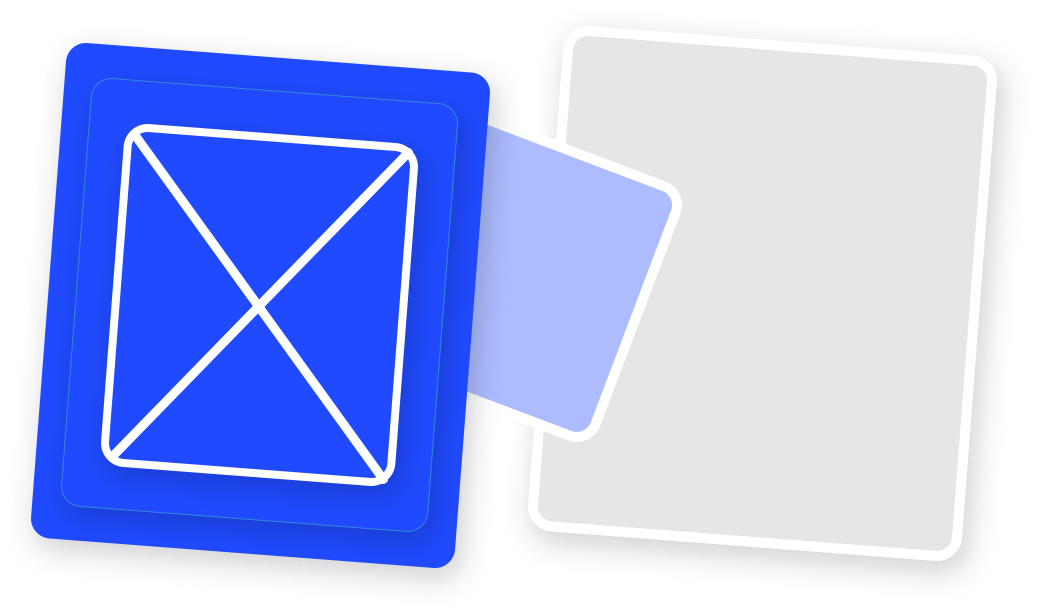
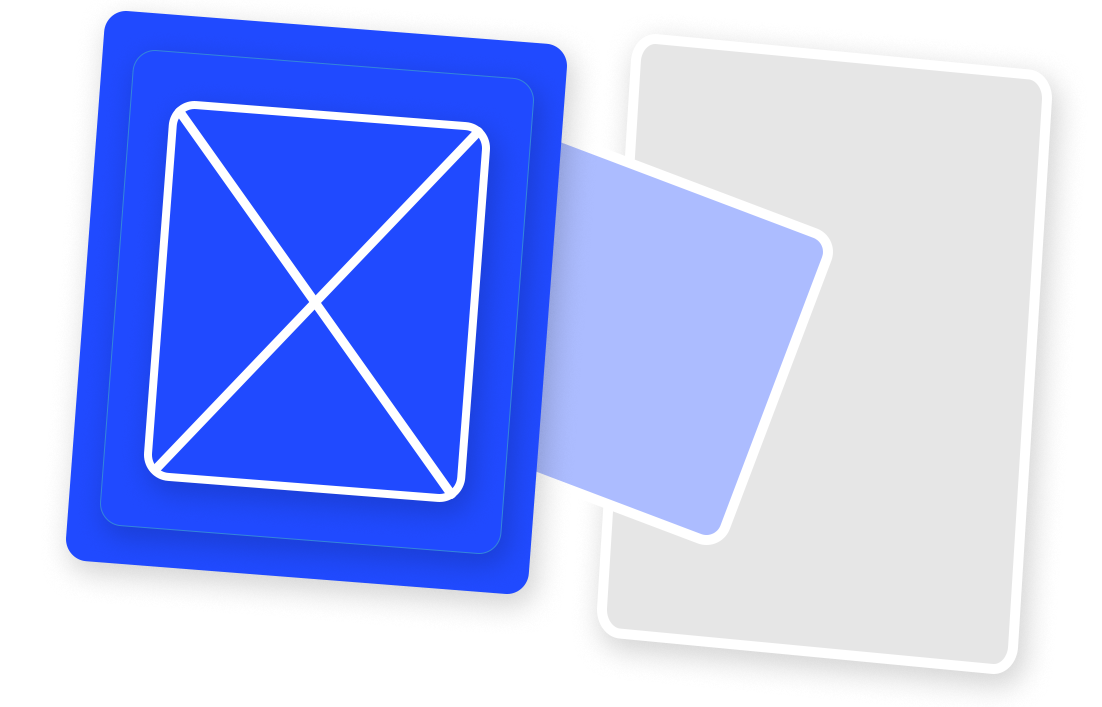
add texts to the cards complete the responsivnesse and adding animation to the project overview page

Changed region(s): [[0.0309, 0.0, 0.9257, 0.9608], [0.8949, 0.093, 0.9566, 0.6819], [0.216, 0.279, 0.2469, 0.3409]]

diff --git a/components/Project_Overview/project_overview.css b/components/Project_Overview/project_overview.css
@@ -33,7 +33,12 @@
         align-items: flex-end;
         gap: 2rem;
         justify-content: center;
-    
+        > *{
+            opacity: 0;
+
+            animation: buttonpop 0.2s ease-out forwards ;
+            animation-delay: calc(.9s - (sibling-index() * .1s)); 
+        } 
     }
 
     .project-title{
@@ -67,7 +72,9 @@
     grid-column:2/-2 ;
     grid-row: 3/-3;
     width: 100%;
-    height: 100%;    
+    height: 100%;   
+
+
     .graphics-container{
         width: 100%;
         height: 100%;
@@ -75,25 +82,30 @@
         grid-template-columns: 1fr 1fr;
         gap: 2rem;
         position: relative;
+
+        > *{
+            animation-delay: calc(.9s - (sibling-index() * .1s)); 
+        } 
         }
     .graphics-container >div:nth-child(3){
             grid-column: 1/-1;
         }
 
     .dev-image{
-        width: 80%;
-        top: 100%;
-        left: 10%;
-        transform: translateY(-70%);
-    }   
-    .build-image{
         width: 90%;
         top: 100%;
-        right: -10%;
-        transform: translateY(-100%);
+        left: 20%;
+        transform: translateY(-80%);
+    }   
+    .build-image{
+        width: 120%;
+        top: 90%;
+        right: -30%;
+        transform: translateY(-100%) rotate(10deg);
     }   
     .marketing-image{
         /* bottom: 100%; */
+        width: 90%;
         top: 100%;
         left: 0;
         transform: translateY(-100%);
@@ -122,6 +134,27 @@
 .project-graphics{
     grid-column: 2/8;
     grid-row:2/-2 ;
+    .graphics-container{
+            .dev-image{
+        width: 80%;
+        top: 100%;
+        left: 10%;
+        transform: translateY(-40%);
+    }   
+    .build-image{
+        width: 90%;
+        top: 100%;
+        right: -10%;
+        transform: translateY(-100%);
+    }   
+    .marketing-image{
+        /* bottom: 100%; */
+        width: 60%;
+        top: 100%;
+        left: 0;
+        transform: translateY(-100%);
+    } 
+    }
 }
 }
 

diff --git a/components/Project_Overview/project_overview.tsx b/components/Project_Overview/project_overview.tsx
@@ -11,7 +11,7 @@ const ProjectOverview = (props: Props) => {
     <div className='grid'>
         <section className='project-graphics'>
             <article className='graphics-container'>
-                <Card title='التعلّم' text='و الذكاء الإصطناعيKotlin تعلم '>
+                <Card title='البناء' text='ابن تطبيقك و حوله إلى منتج '>
                     <Image
                         src={buildImage}
                         alt="sads"
@@ -25,7 +25,7 @@ const ProjectOverview = (props: Props) => {
                         className="dev-image"
                         />
                 </Card>
-                <Card title='التعلّم' text='و الذكاء الإصطناعيKotlin تعلم '>
+                <Card title='التســــويـــــــــــــــق' text='سوّق فكرتك و خلّيها توصل'>
                     <Image
                         src={marketingImage}
                         alt="sads"

diff --git a/components/Card/card.css b/components/Card/card.css
@@ -1,3 +1,6 @@
+/* @import url("../../design_system/03-animation.css"); */
+
+
 .card-container{
     height: 100%;
     background-color: var(--clr-bg-elevated);
@@ -11,12 +14,23 @@
     padding: clamp(1rem,4vw,2rem) ;
     overflow: hidden;
     position: relative;
+    opacity: 0;
+    animation: slideUp 0.6s ease-out forwards ;
+    cursor: pointer;
+    transition: all cubic-bezier(0,.68,1,.21) .2s;
+    /* to save cool effect */
+    /* transition: all cubic-bezier(0,1.39,1,-0.41) .2s; */
+        margin-top: 100px;
 
     img{
         position: absolute;
         width: 60%;
         height: auto;
     }
+}
+.card-container:hover{
+    transform: translateY(0rem) scale(1.1) rotate(2deg);
+    
 }
 .card-title{
     --dynamic-size:var(--font-vw-600);

diff --git a/design_system/03-animation.css b/design_system/03-animation.css
@@ -1,0 +1,49 @@
+@keyframes popIcon {
+  0% {
+    opacity: 0;
+  }
+
+  100% {
+    opacity: 1;
+  }
+
+}
+@keyframes slideUp {
+    from {
+        margin-top: 100px;
+      /* transform: translateY(4rem); */
+      filter: blur(2);
+      opacity: 0;
+    }
+    to {
+    /* transform: auto; */
+        margin-top: 0px;
+    filter: blur(0);
+    opacity: 1;
+  }
+}
+@keyframes slideUpFade {
+  from {
+    opacity: 0;
+    transform: translateY(30px);
+  }
+
+  to {
+    opacity: 1;
+    transform: translateY(0);
+  }
+}
+
+@keyframes buttonpop {
+  from {
+    opacity: 0;
+    transform: translateY(30px) scale(0);
+    filter: blur(10);
+  }
+
+  to {
+    opacity: 1;
+    transform: translateY(0) scale(1);
+    filter: blur(0);
+  }
+}

diff --git a/app/globals.css b/app/globals.css
@@ -1,4 +1,5 @@
 @import url("../design_system/02-aliases.css");
+@import url("../design_system/03-animation.css");
 
 
 
